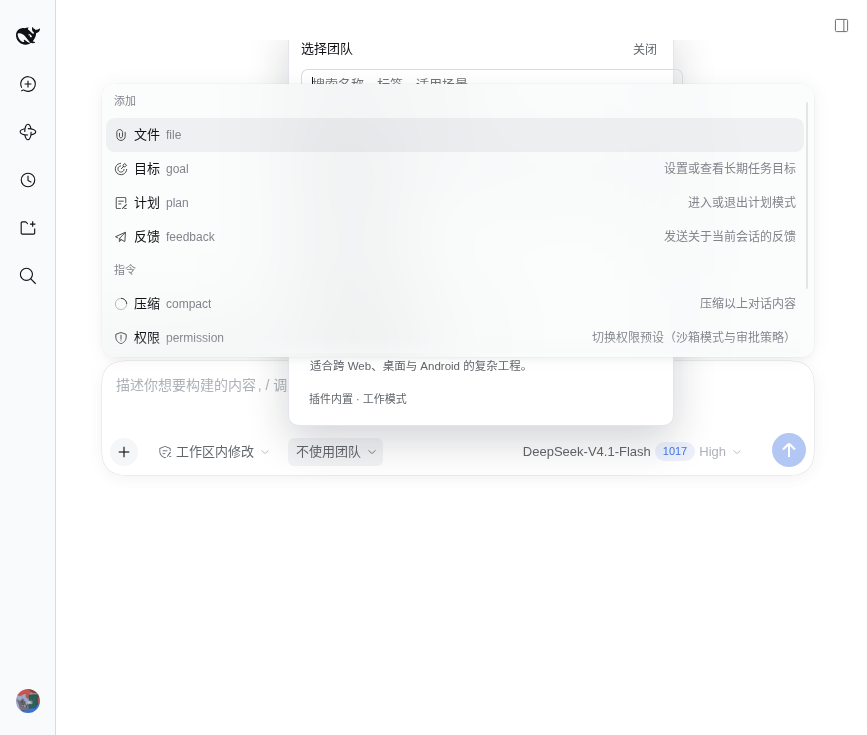
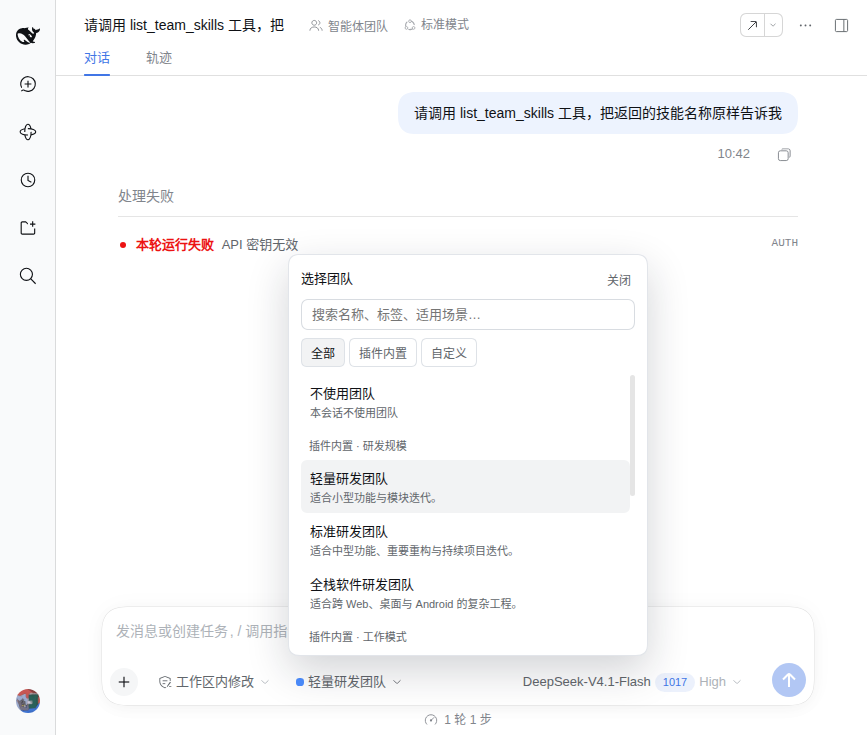
Match the composer option metrics and refresh the acceptance shots
The sub-line was 11.5px with no gap; the prototype's small is 11px with a 2px top
margin, and the option/popover padding now measures 8x9 and 12 against it.

Screenshots refreshed from the running page (teams list, skills library, composer
picker) and TEST_REPORT records the measured values for the select, the footer
notice, the composer rows and the still-too-tall team row.

diff --git a/lib/client.js b/lib/client.js
@@ -16644,30 +16644,30 @@ Set the \`cycles\` parameter to \`"ref"\` to resolve cyclical schemas with defs.
 		if (typeof document !== "undefined" && !document.querySelector("style[data-team-presets-style=\"dsh-agent-team-presets:client/ComposerTeamSelect.module.css\"]")) {
 			const style = document.createElement("style");
 			style.dataset.teamPresetsStyle = key$2;
-			style.textContent = ".Q4LFCW_wrap{display:inline-flex;position:relative}.Q4LFCW_trigger{border-radius:var(--dsw-radius-sm);min-width:0;max-width:160px;height:28px;color:var(--dsw-alias-label-secondary);cursor:pointer;background:0 0;border:none;outline:none;align-items:center;gap:4px;padding:0 4px 0 8px;font-size:13px;font-weight:500;line-height:20px;display:inline-flex}.Q4LFCW_trigger:hover:not(:disabled){background:var(--dsw-alias-interactive-bg-hover)}.Q4LFCW_trigger:focus-visible{box-shadow:0 0 0 2px var(--dsw-focus-ring-color,var(--dsw-alias-state-business-primary))}.Q4LFCW_trigger:disabled{color:var(--dsw-alias-label-dimmed);cursor:default}.Q4LFCW_triggerIcon{flex:none;display:inline-flex}.Q4LFCW_triggerIcon svg{width:14px;height:14px}.Q4LFCW_triggerLabel{text-overflow:ellipsis;white-space:nowrap;min-width:0;overflow:hidden}.Q4LFCW_accentDot{border-radius:50%;flex:none;width:8px;height:8px}.Q4LFCW_failure{text-overflow:ellipsis;white-space:nowrap;max-width:220px;color:var(--dsw-alias-state-warn-label);font-size:11px;line-height:17px;overflow:hidden}.Q4LFCW_popover{box-sizing:border-box;background:var(--dsw-alias-bg-elevated,#fff);border:1px solid var(--dsw-alias-line-regular,#e2e5ea);z-index:40;border-radius:13px;flex-direction:column;gap:8px;width:min(360px,100vw - 76px);padding:12px;display:flex;position:absolute;bottom:40px;left:0;box-shadow:0 15px 42px #171d2930}.Q4LFCW_popHead{justify-content:space-between;align-items:center;font-size:13px;font-weight:550;display:flex}.Q4LFCW_popClose{color:var(--dsw-alias-label-secondary);cursor:pointer;background:0 0;border:0;padding:2px 4px;font-size:12px}.Q4LFCW_popSearch{box-sizing:border-box;border:1px solid var(--dsw-alias-line-regular,#d8dce1);width:100%;max-width:100%;color:inherit;background:0 0;border-radius:9px;outline:none;padding:7px 10px;font-size:13px}.Q4LFCW_popChips{box-sizing:border-box;flex-wrap:wrap;gap:4px;display:flex}.Q4LFCW_popChip{border:1px solid var(--dsw-alias-line-regular,#dee2e7);color:var(--dsw-alias-label-secondary);cursor:pointer;background:0 0;border-radius:7px;padding:5px 9px;font-size:12px}.Q4LFCW_popChipActive{background:var(--dsw-alias-interactive-bg-hover,#e9edf3);color:var(--dsw-alias-label-primary,#202935)}.Q4LFCW_popList{box-sizing:border-box;flex-direction:column;max-height:268px;display:flex;overflow:auto}.Q4LFCW_popGroup{color:var(--dsw-alias-label-secondary);padding:6px 8px 2px;font-size:11px}.Q4LFCW_popOption{text-align:left;width:100%;color:inherit;cursor:pointer;background:0 0;border:0;border-radius:8px;padding:8px 9px;display:block}.Q4LFCW_popOption:hover{background:var(--dsw-alias-interactive-bg-hover,#f0f3f8)}.Q4LFCW_popOptionActive{background:var(--dsw-alias-interactive-bg-hover,#f0f3f8);font-weight:550}.Q4LFCW_popOptionName{font-size:13px;display:block}.Q4LFCW_popOptionSub{color:var(--dsw-alias-label-secondary);text-overflow:ellipsis;white-space:nowrap;font-size:11.5px;display:block;overflow:hidden}.Q4LFCW_popEmpty{color:var(--dsw-alias-label-secondary);text-align:center;padding:14px 8px;font-size:12.5px}";
+			style.textContent = ".Q4LFCW_wrap{display:inline-flex;position:relative}.Q4LFCW_trigger{border-radius:var(--dsw-radius-sm);min-width:0;max-width:160px;height:28px;color:var(--dsw-alias-label-secondary);cursor:pointer;background:0 0;border:none;outline:none;align-items:center;gap:4px;padding:0 4px 0 8px;font-size:13px;font-weight:500;line-height:20px;display:inline-flex}.Q4LFCW_trigger:hover:not(:disabled){background:var(--dsw-alias-interactive-bg-hover)}.Q4LFCW_trigger:focus-visible{box-shadow:0 0 0 2px var(--dsw-focus-ring-color,var(--dsw-alias-state-business-primary))}.Q4LFCW_trigger:disabled{color:var(--dsw-alias-label-dimmed);cursor:default}.Q4LFCW_triggerIcon{flex:none;display:inline-flex}.Q4LFCW_triggerIcon svg{width:14px;height:14px}.Q4LFCW_triggerLabel{text-overflow:ellipsis;white-space:nowrap;min-width:0;overflow:hidden}.Q4LFCW_accentDot{border-radius:50%;flex:none;width:8px;height:8px}.Q4LFCW_failure{text-overflow:ellipsis;white-space:nowrap;max-width:220px;color:var(--dsw-alias-state-warn-label);font-size:11px;line-height:17px;overflow:hidden}.Q4LFCW_popover{box-sizing:border-box;background:var(--dsw-alias-bg-elevated,#fff);border:1px solid var(--dsw-alias-line-regular,#e2e5ea);z-index:40;border-radius:13px;flex-direction:column;gap:8px;width:min(360px,100vw - 76px);padding:12px;display:flex;position:absolute;bottom:40px;left:0;box-shadow:0 15px 42px #171d2930}.Q4LFCW_popHead{justify-content:space-between;align-items:center;font-size:13px;font-weight:550;display:flex}.Q4LFCW_popClose{color:var(--dsw-alias-label-secondary);cursor:pointer;background:0 0;border:0;padding:2px 4px;font-size:12px}.Q4LFCW_popSearch{box-sizing:border-box;border:1px solid var(--dsw-alias-line-regular,#d8dce1);width:100%;max-width:100%;color:inherit;background:0 0;border-radius:9px;outline:none;padding:7px 10px;font-size:13px}.Q4LFCW_popChips{box-sizing:border-box;flex-wrap:wrap;gap:4px;display:flex}.Q4LFCW_popChip{border:1px solid var(--dsw-alias-line-regular,#dee2e7);color:var(--dsw-alias-label-secondary);cursor:pointer;background:0 0;border-radius:7px;padding:5px 9px;font-size:12px}.Q4LFCW_popChipActive{background:var(--dsw-alias-interactive-bg-hover,#e9edf3);color:var(--dsw-alias-label-primary,#202935)}.Q4LFCW_popList{box-sizing:border-box;flex-direction:column;max-height:268px;display:flex;overflow:auto}.Q4LFCW_popGroup{color:var(--dsw-alias-label-secondary);padding:6px 8px 2px;font-size:11px}.Q4LFCW_popOption{text-align:left;width:100%;color:inherit;cursor:pointer;background:0 0;border:0;border-radius:8px;padding:8px 9px;display:block}.Q4LFCW_popOption:hover{background:var(--dsw-alias-interactive-bg-hover,#f0f3f8)}.Q4LFCW_popOptionActive{background:var(--dsw-alias-interactive-bg-hover,#f0f3f8);font-weight:550}.Q4LFCW_popOptionName{font-size:13px;display:block}.Q4LFCW_popOptionSub{color:var(--dsw-alias-label-secondary);text-overflow:ellipsis;white-space:nowrap;margin-top:2px;font-size:11px;display:block;overflow:hidden}.Q4LFCW_popEmpty{color:var(--dsw-alias-label-secondary);text-align:center;padding:14px 8px;font-size:12.5px}";
 			document.head.appendChild(style);
 		}
 		var ComposerTeamSelect_module_css_default = {
-			"popHead": "Q4LFCW_popHead",
-			"popGroup": "Q4LFCW_popGroup",
 			"accentDot": "Q4LFCW_accentDot",
-			"wrap": "Q4LFCW_wrap",
-			"failure": "Q4LFCW_failure",
-			"popOption": "Q4LFCW_popOption",
-			"popEmpty": "Q4LFCW_popEmpty",
-			"popChipActive": "Q4LFCW_popChipActive",
-			"popList": "Q4LFCW_popList",
-			"popOptionActive": "Q4LFCW_popOptionActive",
-			"popOptionName": "Q4LFCW_popOptionName",
-			"popChip": "Q4LFCW_popChip",
 			"popSearch": "Q4LFCW_popSearch",
-			"trigger": "Q4LFCW_trigger",
-			"triggerIcon": "Q4LFCW_triggerIcon",
-			"popChips": "Q4LFCW_popChips",
+			"popChip": "Q4LFCW_popChip",
+			"popOption": "Q4LFCW_popOption",
+			"triggerLabel": "Q4LFCW_triggerLabel",
 			"popClose": "Q4LFCW_popClose",
 			"popOptionSub": "Q4LFCW_popOptionSub",
-			"triggerLabel": "Q4LFCW_triggerLabel",
-			"popover": "Q4LFCW_popover"
+			"popEmpty": "Q4LFCW_popEmpty",
+			"popChipActive": "Q4LFCW_popChipActive",
+			"triggerIcon": "Q4LFCW_triggerIcon",
+			"popover": "Q4LFCW_popover",
+			"popOptionActive": "Q4LFCW_popOptionActive",
+			"trigger": "Q4LFCW_trigger",
+			"wrap": "Q4LFCW_wrap",
+			"popGroup": "Q4LFCW_popGroup",
+			"failure": "Q4LFCW_failure",
+			"popHead": "Q4LFCW_popHead",
+			"popChips": "Q4LFCW_popChips",
+			"popList": "Q4LFCW_popList",
+			"popOptionName": "Q4LFCW_popOptionName"
 		};
 
 
@@ -18972,74 +18972,74 @@ Set the \`cycles\` parameter to \`"ref"\` to resolve cyclical schemas with defs.
 			document.head.appendChild(style);
 		}
 		var TeamPresetsSection_module_css_default = {
-			"skillCardDesc": "_628ArG_skillCardDesc",
-			"panel": "_628ArG_panel",
-			"chipRow": "_628ArG_chipRow",
-			"footerNotes": "_628ArG_footerNotes",
-			"entryRow": "_628ArG_entryRow",
-			"conflictMember": "_628ArG_conflictMember",
-			"empty": "_628ArG_empty",
-			"conflictLead": "_628ArG_conflictLead",
-			"footerActions": "_628ArG_footerActions",
-			"toolGrid": "_628ArG_toolGrid",
+			"choiceRow": "_628ArG_choiceRow",
+			"plainRows": "_628ArG_plainRows",
+			"crumb": "_628ArG_crumb",
+			"hint": "_628ArG_hint",
 			"sepTitle": "_628ArG_sepTitle",
 			"page": "_628ArG_page",
-			"choiceRow": "_628ArG_choiceRow",
-			"entry": "_628ArG_entry",
-			"select": "_628ArG_select",
-			"actionRow": "_628ArG_actionRow",
-			"cardHead": "_628ArG_cardHead",
-			"toolGroup": "_628ArG_toolGroup",
-			"toolGroupToggle": "_628ArG_toolGroupToggle",
-			"swatches": "_628ArG_swatches",
-			"chipActive": "_628ArG_chipActive",
 			"pillInput": "_628ArG_pillInput",
-			"crumb": "_628ArG_crumb",
-			"rowMain": "_628ArG_rowMain",
-			"rowMeta": "_628ArG_rowMeta",
-			"intro": "_628ArG_intro",
-			"toolGroupHead": "_628ArG_toolGroupHead",
-			"choice": "_628ArG_choice",
-			"dot": "_628ArG_dot",
-			"swatchNone": "_628ArG_swatchNone",
-			"skillGrid": "_628ArG_skillGrid",
-			"rowText": "_628ArG_rowText",
-			"sectionTitle": "_628ArG_sectionTitle",
-			"categoryPill": "_628ArG_categoryPill",
-			"selectLabel": "_628ArG_selectLabel",
-			"card": "_628ArG_card",
-			"cardTitle": "_628ArG_cardTitle",
-			"swatch": "_628ArG_swatch",
-			"fieldLabel": "_628ArG_fieldLabel",
-			"plainRows": "_628ArG_plainRows",
-			"skillCard": "_628ArG_skillCard",
-			"skillCardTag": "_628ArG_skillCardTag",
-			"chip": "_628ArG_chip",
-			"conflict": "_628ArG_conflict",
-			"section": "_628ArG_section",
-			"muted": "_628ArG_muted",
-			"toolCheckbox": "_628ArG_toolCheckbox",
-			"rowActions": "_628ArG_rowActions",
-			"skillCardName": "_628ArG_skillCardName",
-			"skillCardTop": "_628ArG_skillCardTop",
-			"conflictName": "_628ArG_conflictName",
-			"warn": "_628ArG_warn",
-			"footer": "_628ArG_footer",
-			"footerNote": "_628ArG_footerNote",
+			"swatches": "_628ArG_swatches",
 			"chevron": "_628ArG_chevron",
-			"rowName": "_628ArG_rowName",
-			"toolGroupCount": "_628ArG_toolGroupCount",
-			"prompt": "_628ArG_prompt",
+			"toolGrid": "_628ArG_toolGrid",
+			"empty": "_628ArG_empty",
 			"input": "_628ArG_input",
-			"rows": "_628ArG_rows",
-			"pageHead": "_628ArG_pageHead",
-			"fileInput": "_628ArG_fileInput",
-			"listToolbar": "_628ArG_listToolbar",
+			"entryRow": "_628ArG_entryRow",
+			"skillCardTag": "_628ArG_skillCardTag",
+			"categoryPill": "_628ArG_categoryPill",
+			"swatchNone": "_628ArG_swatchNone",
+			"skillCardTop": "_628ArG_skillCardTop",
+			"dot": "_628ArG_dot",
+			"cardHead": "_628ArG_cardHead",
+			"selectLabel": "_628ArG_selectLabel",
+			"rowActions": "_628ArG_rowActions",
+			"prompt": "_628ArG_prompt",
+			"skillCardDesc": "_628ArG_skillCardDesc",
+			"chip": "_628ArG_chip",
+			"rowMeta": "_628ArG_rowMeta",
 			"categoryPanel": "_628ArG_categoryPanel",
-			"listSearch": "_628ArG_listSearch",
-			"field": "_628ArG_field",
+			"footerActions": "_628ArG_footerActions",
+			"rows": "_628ArG_rows",
+			"entry": "_628ArG_entry",
+			"skillCardName": "_628ArG_skillCardName",
+			"chipActive": "_628ArG_chipActive",
+			"skillGrid": "_628ArG_skillGrid",
+			"sectionTitle": "_628ArG_sectionTitle",
+			"choice": "_628ArG_choice",
+			"pageHead": "_628ArG_pageHead",
+			"toolGroupCount": "_628ArG_toolGroupCount",
+			"conflict": "_628ArG_conflict",
+			"footerNote": "_628ArG_footerNote",
+			"toolCheckbox": "_628ArG_toolCheckbox",
+			"warn": "_628ArG_warn",
+			"toolGroupToggle": "_628ArG_toolGroupToggle",
+			"footerNotes": "_628ArG_footerNotes",
+			"skillCard": "_628ArG_skillCard",
+			"intro": "_628ArG_intro",
+			"rowText": "_628ArG_rowText",
+			"fieldLabel": "_628ArG_fieldLabel",
+			"select": "_628ArG_select",
+			"footer": "_628ArG_footer",
 			"title": "_628ArG_title",
-			"hint": "_628ArG_hint"
+			"listSearch": "_628ArG_listSearch",
+			"panel": "_628ArG_panel",
+			"rowMain": "_628ArG_rowMain",
+			"section": "_628ArG_section",
+			"toolGroup": "_628ArG_toolGroup",
+			"rowName": "_628ArG_rowName",
+			"toolGroupHead": "_628ArG_toolGroupHead",
+			"conflictMember": "_628ArG_conflictMember",
+			"cardTitle": "_628ArG_cardTitle",
+			"fileInput": "_628ArG_fileInput",
+			"actionRow": "_628ArG_actionRow",
+			"field": "_628ArG_field",
+			"swatch": "_628ArG_swatch",
+			"chipRow": "_628ArG_chipRow",
+			"card": "_628ArG_card",
+			"conflictName": "_628ArG_conflictName",
+			"muted": "_628ArG_muted",
+			"listToolbar": "_628ArG_listToolbar",
+			"conflictLead": "_628ArG_conflictLead"
 		};
 
 
@@ -20497,51 +20497,51 @@ Set the \`cycles\` parameter to \`"ref"\` to resolve cyclical schemas with defs.
 			document.head.appendChild(style);
 		}
 		var TeamSkillsView_module_css_default = {
-			"dialogActions": "_5P1EWa_dialogActions",
-			"fileTop": "_5P1EWa_fileTop",
-			"search": "_5P1EWa_search",
-			"page": "_5P1EWa_page",
-			"pills": "_5P1EWa_pills",
-			"tag": "_5P1EWa_tag",
-			"panelTitle": "_5P1EWa_panelTitle",
-			"rowTitle": "_5P1EWa_rowTitle",
-			"crumb": "_5P1EWa_crumb",
 			"rowSub": "_5P1EWa_rowSub",
-			"chev": "_5P1EWa_chev",
-			"fileEditor": "_5P1EWa_fileEditor",
-			"empty": "_5P1EWa_empty",
-			"dialog": "_5P1EWa_dialog",
-			"headText": "_5P1EWa_headText",
-			"sub": "_5P1EWa_sub",
-			"actions": "_5P1EWa_actions",
-			"main": "_5P1EWa_main",
-			"tagOrigin": "_5P1EWa_tagOrigin",
-			"rowlist": "_5P1EWa_rowlist",
-			"fileArea": "_5P1EWa_fileArea",
-			"dot": "_5P1EWa_dot",
-			"code": "_5P1EWa_code",
-			"info": "_5P1EWa_info",
-			"title": "_5P1EWa_title",
-			"tagOk": "_5P1EWa_tagOk",
-			"mini": "_5P1EWa_mini",
 			"message": "_5P1EWa_message",
-			"tagWarn": "_5P1EWa_tagWarn",
-			"messageFailed": "_5P1EWa_messageFailed",
+			"dot": "_5P1EWa_dot",
+			"dialogActions": "_5P1EWa_dialogActions",
+			"sub": "_5P1EWa_sub",
 			"sectionTitle": "_5P1EWa_sectionTitle",
-			"headRow": "_5P1EWa_headRow",
-			"toolbar": "_5P1EWa_toolbar",
 			"dialogBackdrop": "_5P1EWa_dialogBackdrop",
-			"row": "_5P1EWa_row",
-			"muted": "_5P1EWa_muted",
-			"panel": "_5P1EWa_panel",
-			"active": "_5P1EWa_active",
-			"fileTree": "_5P1EWa_fileTree",
-			"segment": "_5P1EWa_segment",
-			"titleActions": "_5P1EWa_titleActions",
+			"search": "_5P1EWa_search",
+			"title": "_5P1EWa_title",
+			"empty": "_5P1EWa_empty",
+			"panelTitle": "_5P1EWa_panelTitle",
+			"crumb": "_5P1EWa_crumb",
+			"messageFailed": "_5P1EWa_messageFailed",
+			"headRow": "_5P1EWa_headRow",
+			"pills": "_5P1EWa_pills",
+			"actions": "_5P1EWa_actions",
+			"tagOk": "_5P1EWa_tagOk",
+			"toolbar": "_5P1EWa_toolbar",
+			"tagWarn": "_5P1EWa_tagWarn",
+			"fileTop": "_5P1EWa_fileTop",
+			"mini": "_5P1EWa_mini",
+			"rowTitle": "_5P1EWa_rowTitle",
 			"dotCustom": "_5P1EWa_dotCustom",
+			"chev": "_5P1EWa_chev",
+			"tagOrigin": "_5P1EWa_tagOrigin",
+			"fileArea": "_5P1EWa_fileArea",
+			"headText": "_5P1EWa_headText",
+			"segment": "_5P1EWa_segment",
+			"tag": "_5P1EWa_tag",
+			"fileTree": "_5P1EWa_fileTree",
+			"fileEditor": "_5P1EWa_fileEditor",
 			"bindRow": "_5P1EWa_bindRow",
+			"main": "_5P1EWa_main",
+			"muted": "_5P1EWa_muted",
+			"dialog": "_5P1EWa_dialog",
 			"field": "_5P1EWa_field",
-			"label": "_5P1EWa_label"
+			"label": "_5P1EWa_label",
+			"page": "_5P1EWa_page",
+			"row": "_5P1EWa_row",
+			"panel": "_5P1EWa_panel",
+			"rowlist": "_5P1EWa_rowlist",
+			"active": "_5P1EWa_active",
+			"info": "_5P1EWa_info",
+			"code": "_5P1EWa_code",
+			"titleActions": "_5P1EWa_titleActions"
 		};
 
 

diff --git a/src/client/ComposerTeamSelect.module.css b/src/client/ComposerTeamSelect.module.css
@@ -190,7 +190,8 @@
 
 .popOptionSub {
   display: block;
-  font-size: 11.5px;
+  margin-top: 2px;
+  font-size: 11px;
   color: var(--dsw-alias-label-secondary);
   overflow: hidden;
   text-overflow: ellipsis;
